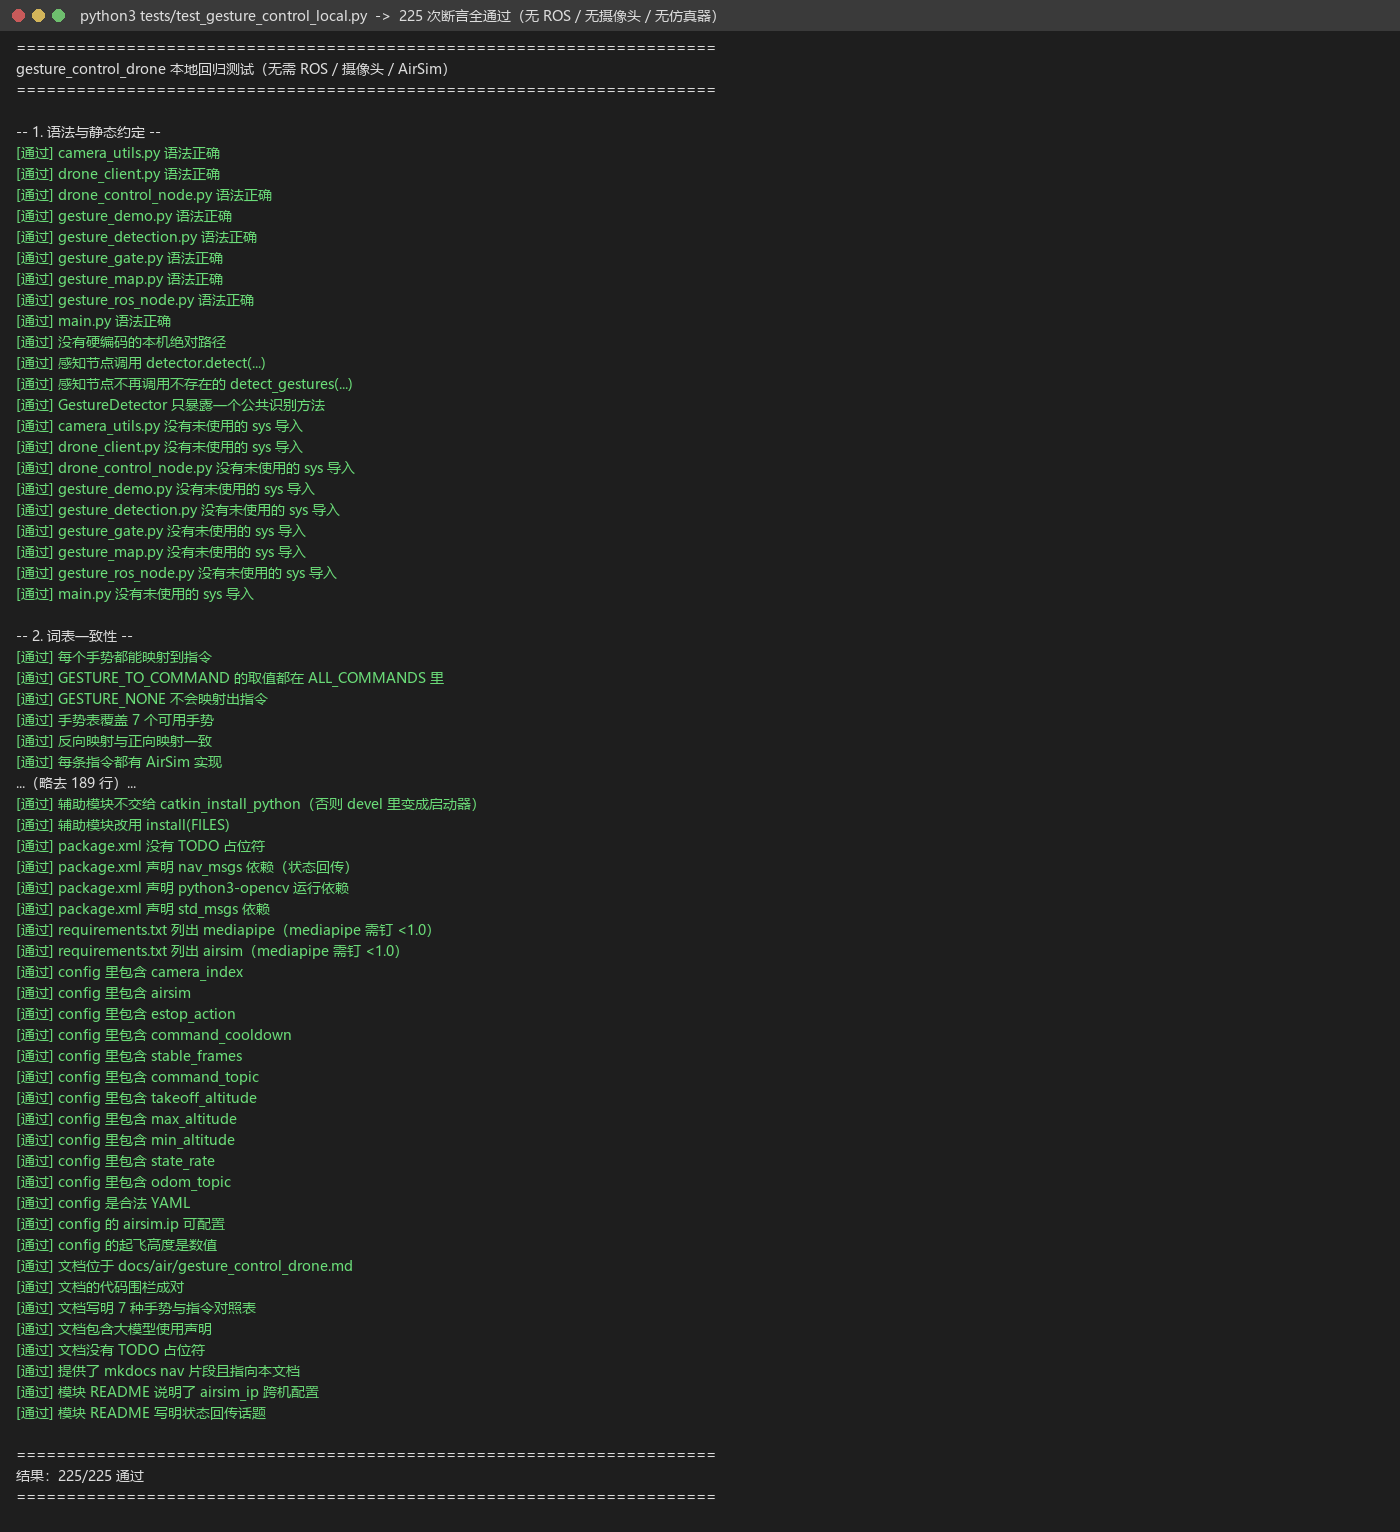
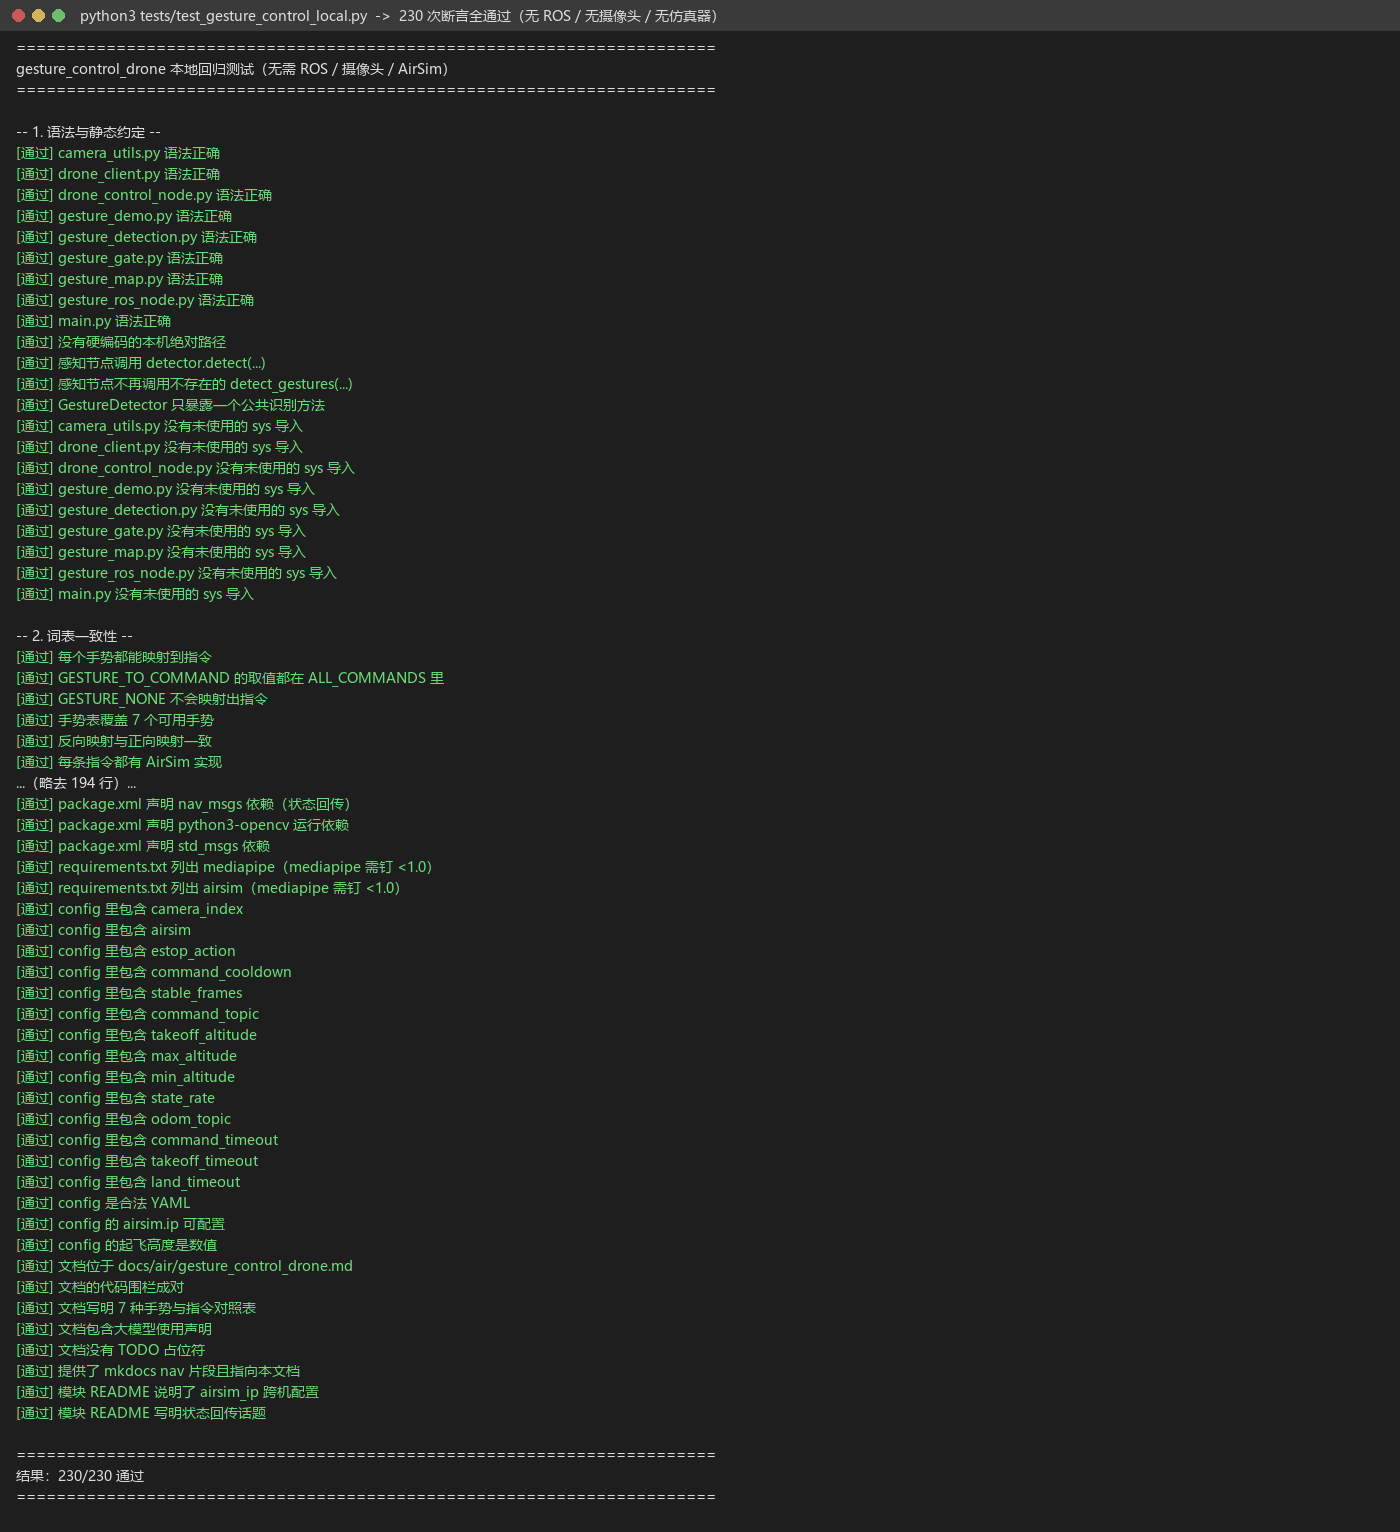
fix(air): 按评审（2026-10-28）修文档与三处代码问题
文档：
- 删除 §9.2 与 run.png（图里是"客户端=同步替身/仅同步接口"的旧结论，与 §10 冲突）
- §9 开头统一声明：本节图片均由 tools/log_to_png.py 从真实终端输出渲染，非系统截屏
- §10.3 删掉"摄像头→手势链尚未跑通"的过期表述；订正 pip 装不上的原因
  （airsim sdist 的 setup.py 构建期 import numpy；msgpack-rpc-python 依赖的
  msgpack-python==0.5.6 在 Windows 无 wheel）
- hover/刹车那条结论加限定语"在等价 msgpack-rpc 客户端上观察到"，不写成 AirSim 特性
- 起飞表格注明：定高（takeoff_altitude）只在 *Async 路径生效

代码：
- _make_client：airsim 不可用时回退 cosysairsim（Windows 无需编译器）
- state_valid：未连接/读失败时不伪造 (0,0,0)，节点据此跳过 odom 发布
- _sync_rpc 的裸 RPC 回退补上 vehicle_name 位置参数（与"7 个参数"的说法一致）
- 节点接上 takeoff_timeout / land_timeout，config 也补上这两项

离线回归：225 -> 230（新增 state_valid 两条 + config 三个键）

Changed region(s): [[0.0307, 0.5215, 0.3379, 0.7977]]

diff --git a/src/air/gesture_control_drone/scripts/drone_client.py b/src/air/gesture_control_drone/scripts/drone_client.py
@@ -143,6 +143,8 @@ class AirSimDrone(object):
         self.last_error = ""
         self.counts = {}
         self.last_state = DroneState()
+        #: 最近一次 state() 是否真的读到了数据；节点据此决定是否发布 odom
+        self.state_valid = False
 
         self._handlers = {
             gm.CMD_TAKEOFF: self._takeoff,
@@ -172,10 +174,16 @@ class AirSimDrone(object):
             return self._client_factory(ip=self.ip, port=self.port)
         try:
             import airsim
-        except ImportError as exc:
-            raise RuntimeError(
-                "缺少 airsim 客户端：pip3 install airsim"
-                "（经典版 AirSim 用 airsim；Cosys-AirSim 才用 cosysairsim）") from exc
+        except ImportError:
+            # Windows 上官方 airsim 包要编译 msgpack-python(0.5.6，需 MSVC)，
+            # 很多机器装不上；Cosys-AirSim 的客户端 RPC 协议一致，可直接顶上。
+            try:
+                import cosysairsim as airsim
+            except ImportError as exc:
+                raise RuntimeError(
+                    "缺少 AirSim 客户端：pip install airsim（Linux/macOS 推荐）"
+                    " 或 pip install cosysairsim（Windows 无需编译器）；"
+                    "两者 RPC 协议一致") from exc
         return airsim.MultirotorClient(ip=self.ip, port=self.port)
 
     def connect(self):
@@ -310,8 +318,13 @@ class AirSimDrone(object):
                     return fn(*args)
                 raise
         if self._has_raw_rpc():
+            # 服务端签名里 vehicle_name 是**最后一个位置参数**，裸 RPC 也必须补上，
+            # 否则会 invalid number of arguments。
             raw = getattr(client, "client")
-            return raw.call(method, *args)
+            extra = kwargs.get("vehicle_name")
+            if extra is None:
+                return raw.call(method, *args)
+            return raw.call(method, *args, extra)
         raise RuntimeError("客户端没有 %s()，也没有底层 call()" % method)
 
     def _ensure_unpaused(self):
@@ -565,6 +578,7 @@ class AirSimDrone(object):
         """读取一次载具状态并转成 ENU；失败时返回上一帧并记录错误。"""
         client = client or self.client
         if client is None:
+            self.state_valid = False
             return self.last_state
         try:
             raw = self._call(lambda: client.getMultirotorState(**self._kw()),
@@ -590,7 +604,9 @@ class AirSimDrone(object):
                 position_enu=pos, velocity_enu=vel,
                 landed_state=landed_state_name(getattr(raw, "landed_state", 0)),
                 api_control=api, collision=collision, stamp=self._clock())
+            self.state_valid = True
         except Exception as exc:
+            self.state_valid = False
             self.last_error = str(exc)
             self._log("读取状态失败：%s" % exc)
         return self.last_state

diff --git a/tests/test_gesture_control_local.py b/tests/test_gesture_control_local.py
@@ -769,6 +769,8 @@ def test_drone_client():
           and abs(st.velocity_enu[2] - 0.3) < 1e-6, str(st.velocity_enu))
     check("落地状态可读（1 -> Flying）", st.landed_state == "Flying",
           st.landed_state)
+    check("读到有效状态后 state_valid 为 True", d.state_valid is True,
+          d.state_valid)
     check("高度取 ENU 的 z", abs(st.altitude - 2.0) < 1e-6, str(st.altitude))
     check("api_control 如实反映", st.api_control is True)
     f.collided = True
@@ -785,6 +787,8 @@ def test_drone_client():
     check("关闭时交还 API 控制",
           ("enableApiControl", False) in f.calls, str(f.calls))
     check("关闭后 connected=False", d.connected is False)
+    check("未读到状态时 state_valid 为 False", d.state_valid is False,
+          d.state_valid)
 
 
 # --------------------------------------------------------------------------- #
@@ -1275,7 +1279,8 @@ def test_project_layout():
     cfg = read(os.path.join(PKG, "config", "gesture_control.yaml"))
     for key in ("camera_index", "airsim", "estop_action", "command_cooldown",
                 "stable_frames", "command_topic", "takeoff_altitude",
-                "max_altitude", "min_altitude", "state_rate", "odom_topic"):
+                "max_altitude", "min_altitude", "state_rate", "odom_topic",
+                "command_timeout", "takeoff_timeout", "land_timeout"):
         check("config 里包含 %s" % key, key in cfg)
     try:
         import yaml

diff --git a/src/air/gesture_control_drone/scripts/drone_control_node.py b/src/air/gesture_control_drone/scripts/drone_control_node.py
@@ -73,6 +73,8 @@ class DroneControlNode(object):
                 min_altitude=_p("min_altitude", 0.5),
                 yaw_rate=_p("yaw_rate", 30.0),
                 command_timeout=_p("command_timeout", 10.0),
+                takeoff_timeout=_p("takeoff_timeout", 60.0),
+                land_timeout=_p("land_timeout", 60.0),
                 connect_retries=_p("connect_retries", 3),
                 log=rospy.loginfo)
         self.drone = drone
@@ -160,8 +162,14 @@ class DroneControlNode(object):
     # 状态回传
     # ------------------------------------------------------------------ #
     def publish_odom(self):
-        """读一次载具状态并发成 ``nav_msgs/Odometry``（ENU）。"""
+        """读一次载具状态并发成 ``nav_msgs/Odometry``（ENU）。
+
+        未连接 / 读不到状态时**不发布**：否则会先发一帧 (0,0,0)，
+        RViz 里表现为飞机从原点跳到真实位置。
+        """
         state = self.drone.state()
+        if not getattr(self.drone, "state_valid", True):
+            return
         msg = Odometry()
         msg.header.stamp = rospy.Time.now()
         msg.header.frame_id = self.world_frame

diff --git a/src/air/gesture_control_drone/README.md b/src/air/gesture_control_drone/README.md
@@ -90,7 +90,7 @@ rostopic pub -1 /gesture_command std_msgs/String "data: 'home'"
 | 能力 | 实现 |
 |---|---|
 | 连接 | `confirmConnection` + `enableApiControl` 只做一次并复用；失败可重试 |
-| 起飞 | `armDisarm(True)` → `takeoffAsync` → `moveToZAsync(-高度)` → `hoverAsync` |
+| 起飞 | `armDisarm(True)` → `takeoffAsync` → `moveToZAsync(-takeoff_altitude)` → `hoverAsync`（定高仅在 `*Async` 路径生效，同步回退由仿真器默认高度决定） |
 | 降落 / 悬停 | `landAsync` / `hoverAsync` |
 | 位移 | `moveByVelocityBodyFrameAsync`（机体系；NED 下 `-z` 为上） |
 | 偏航 | `rotateByYawRateAsync`（NED 顺时针为正） |
@@ -101,6 +101,7 @@ rostopic pub -1 /gesture_command std_msgs/String "data: 'home'"
 | 超时 | 每个 RPC 在工作线程执行并加 `command_timeout`，卡住即失败 |
 | 退出 | 先悬停再 `enableApiControl(False)`，不锁桨 |
 | **API 兼容** | `*Async` 只是客户端对 `call_async('takeoff', ...)` 的包装（服务端所有版本都只有 `takeoff/land/hover/goHome`）。连上后探测客户端是否提供 `*Async`：有则走异步，没有则回退到同名同步方法，并用**独立连接发完即弃**、状态靠轮询 |
+| **客户端** | 优先 `import airsim`；装不上时回退 `cosysairsim`（Windows 无需编译器，RPC 协议一致） |
 | **结果语义** | 有 `*Async` 时 `join()` 能拿到 AirSim 的异常；同步回退模式下同步命令是"发完即弃"，只能确认"已下发"，结果看 `/drone/odom` 与 `/drone_state` |
 | **摄像头** | Linux 下默认用 V4L2 + **MJPG 640×480**：VMware/VirtualBox 透传的摄像头在默认 YUYV 720p 下会 `select() timeout`；可用 `GESTURE_CAMERA_FOURCC=YUYV` 覆盖 |
 | **暂停检查** | 连接时查 `simIsPaused`，若被暂停自动 `simPause(False)`（暂停时物理不推进，`takeoff` 会永远等不到高度） |
